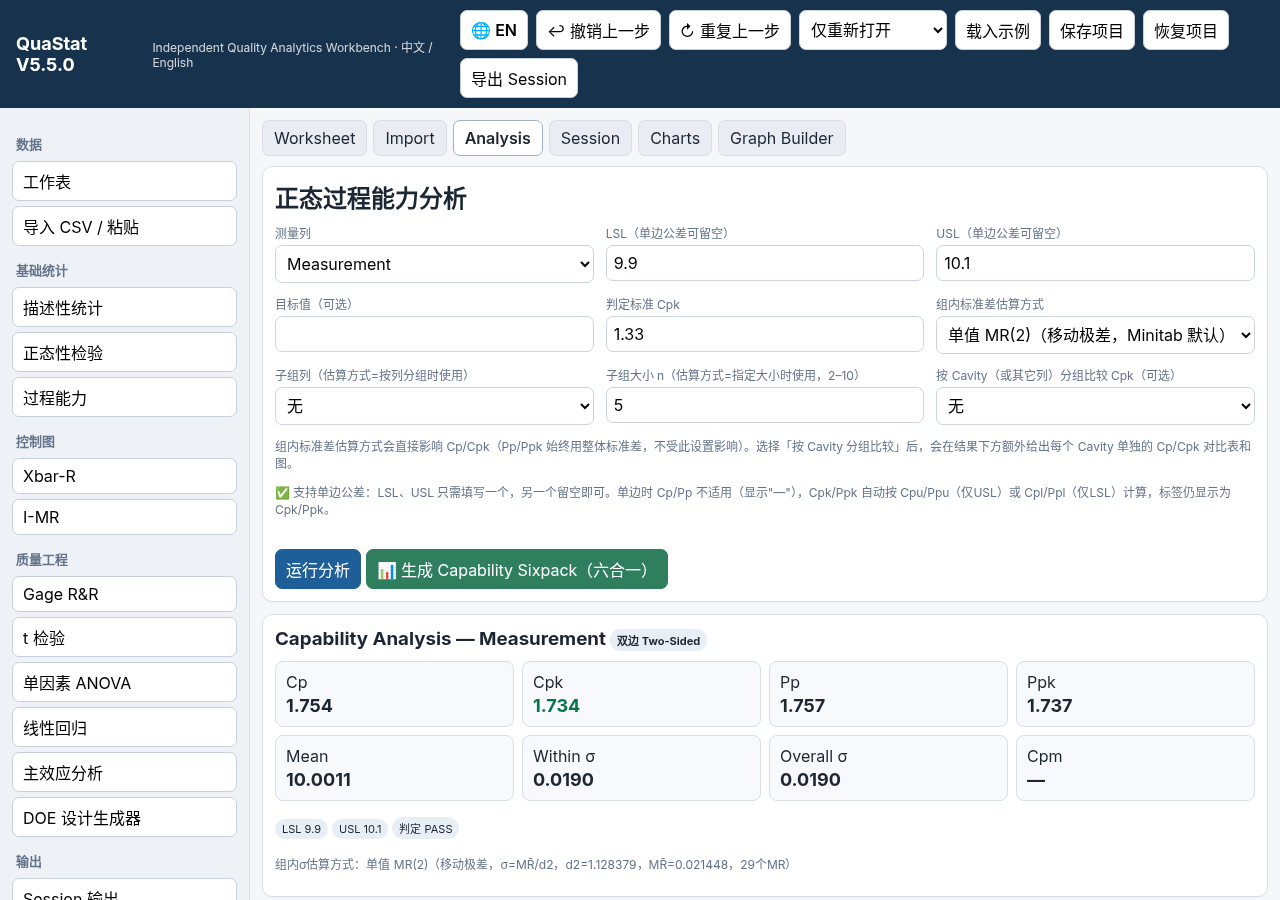
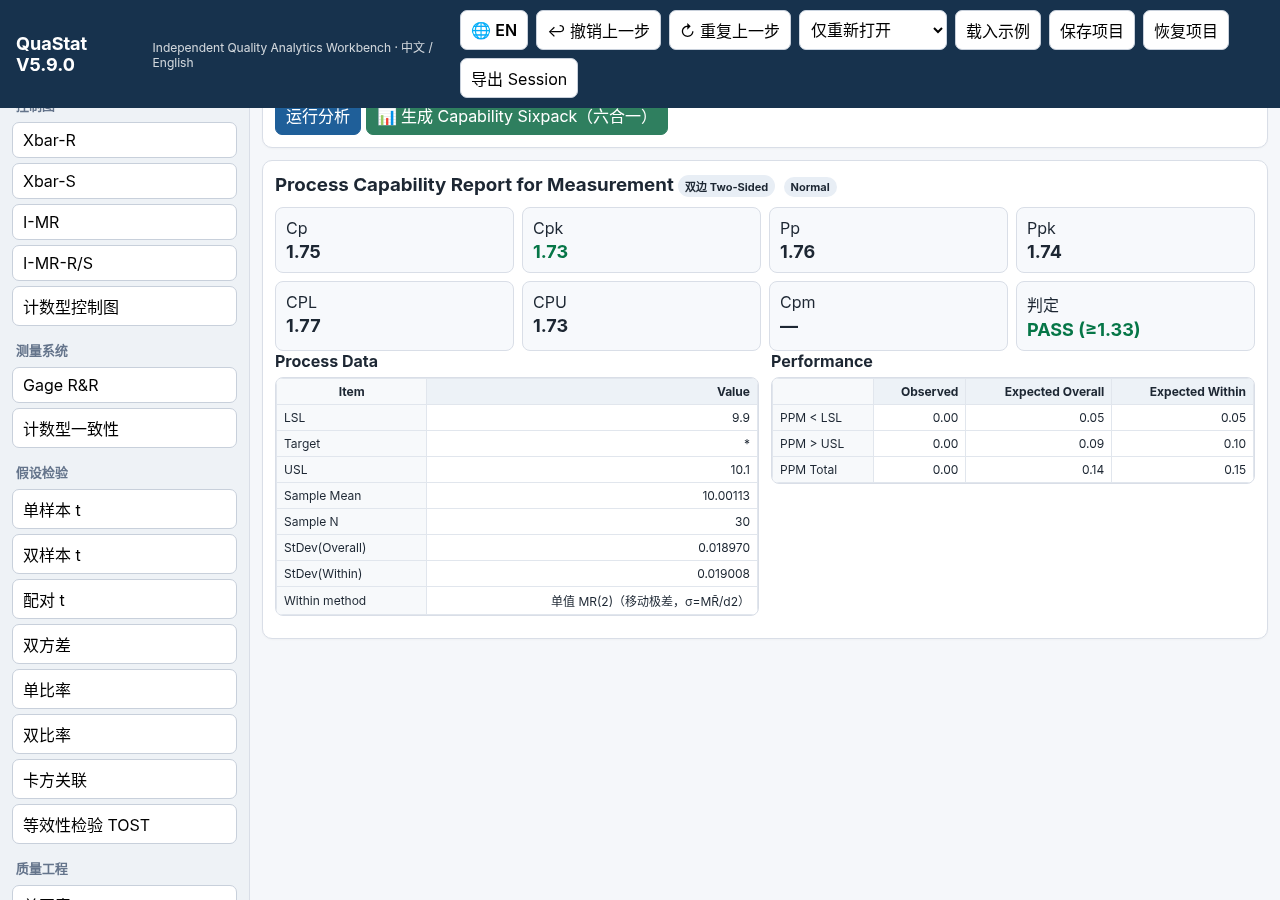
QuaStat 介绍页更新到 V5.9.0
- 功能列表按 9 组重写：工作表与数据工具 / 基础统计 / 过程能力 / 控制图 /
  测量系统分析 / 假设检验 / 质量工程与设计 / 图形与 Graph Builder /
  PCS 过程能力研究报告。补齐之前缺的容差区间、Xbar-S、I-MR-R/S、
  计数型 P/NP/C/U、计数型一致性、单比率双比率卡方、TOST、DOE 因子分析、
  单值图/区间图/Pareto，以及 PCS 报告整条链路。
- 版本号进 title、description 与 meta[name=version]；正文标出当前版本。
- 数值验证段落改用 VALIDATION.md 口径：合计 1066 项全通过（含本地 Minitab
  60 项），CI 为 1006 项；另有 verify.py 140 项、npm test 33 项；来源补全
  NIST StRD / e-Handbook / Monte Carlo 固定种子 / Minitab 官方公式，
  并说明本地 Minitab 报告不入库、CI 跳过。
- Minitab 只写到「方法与公式按官方文档实现、数值经多源交叉验证」，
  明确不等同逐图逐版面核对；保留「数值验证≠医疗器械软件确认」免责声明。
- 重截 worksheet.png / capability.png 为 V5.9.0 界面（旧图是 V5.5.0，
  侧栏和版本号都对不上）。
- style.css 加 h3 样式，让功能分组标题有层级。
- 首页卡片同步提到 V5.9.0 与 PCS 报告。

diff --git a/quastat/index.html b/quastat/index.html
@@ -3,8 +3,9 @@
 <head>
 <meta charset="utf-8">
 <meta name="viewport" content="width=device-width, initial-scale=1">
-<title>QuaStat · 轻量质量统计工作台</title>
-<meta name="description" content="QuaStat：单个 HTML 文件的质量统计分析工作台，数据只在本地浏览器中处理。">
+<title>QuaStat V5.9.0 · 轻量质量统计工作台</title>
+<meta name="description" content="QuaStat V5.9.0：单个 HTML 文件的质量统计分析工作台。过程能力与六图、控制图、Gage R&amp;R、假设检验、DOE，以及 PCS 过程能力研究报告。数据只在本地浏览器中处理。">
+<meta name="version" content="5.9.0">
 <link rel="stylesheet" href="/style.css">
 </head>
 <body>
@@ -12,36 +13,95 @@
 <header class="site"><a class="name" href="/">Ben Xu</a><nav><a href="/quastat/">QuaStat</a><a href="https://x.com/benjaminxu2023" rel="me noopener">X</a></nav></header>
 <main>
 <h1>QuaStat</h1>
-<p class="lead">轻量的质量统计分析工作台。单个 HTML 文件，中英文界面可切换。</p>
+<p class="lead">轻量的质量统计分析工作台，单个 HTML 文件，中英文界面可切换。当前版本 <strong>V5.9.0</strong>。</p>
 <div class="cta"><a class="btn" href="/quastat/app/">在线打开</a></div>
-<p class="note">数据只在本地浏览器中处理，不会上传。推荐使用 Chrome 或 Edge。</p>
+<p class="note">数据只在本地浏览器中处理，不会上传。无需安装或构建，推荐使用 Chrome 或 Edge。</p>
 
 <h2>功能</h2>
+
+<h3>工作表与数据工具</h3>
+<ul>
+  <li>导入 xlsx / csv / txt / tsv，或直接粘贴表格</li>
+  <li>堆叠列、拆分列、排序、计算器，撤销上一步</li>
+  <li>空白单元格按缺失处理（不当 0）；按项目隔离的设置记忆，切换数据集不会串参数</li>
+</ul>
+
+<h3>基础统计</h3>
 <ul>
   <li>描述性统计</li>
-  <li>正态性检验（Anderson–Darling）</li>
-  <li>过程能力：Cp/Cpk、Pp/Ppk、Cpm，可按 Cavity 分组比较</li>
-  <li>Xbar-R / I-MR 控制图</li>
-  <li>Gage R&amp;R</li>
-  <li>t 检验、单因素 ANOVA、线性回归</li>
-  <li>主效应分析、DOE 设计生成器</li>
-  <li>常用图形和 Graph Builder</li>
+  <li>正态性检验（Anderson–Darling，输出 A²、A²* 与 P 值）</li>
+  <li>容差区间</li>
 </ul>
-<p>无需安装或构建，在浏览器中打开即可使用。</p>
+
+<h3>过程能力</h3>
+<ul>
+  <li>Cp / Cpk、Pp / Ppk、Cpm，支持单侧公差</li>
+  <li>组内 σ 可选单值 MR(2)、按子组列、指定子组大小，或直接用整体标准差</li>
+  <li>按 Cavity（或任意列）分组比较各腔能力，并按腔出 Capability Sixpack 六图</li>
+  <li>非正态与变换：Box-Cox、Johnson 变换、Weibull、Lognormal</li>
+</ul>
+
+<h3>控制图</h3>
+<ul>
+  <li>计量型：Xbar-R、Xbar-S、I-MR、I-MR-R/S</li>
+  <li>计数型：P / NP / C / U，样本量不等时用逐点控制限</li>
+  <li>判异规则 Test 1–4；可按 Cavity 分组，各腔独立定限</li>
+</ul>
+
+<h3>测量系统分析</h3>
+<ul>
+  <li>Gage R&amp;R（交叉 ANOVA，含交互项，α=0.25 取舍规则；%Contribution、%StudyVar、%Tolerance、ndc）</li>
+  <li>计数型一致性分析（Attribute Agreement，κ）</li>
+</ul>
+
+<h3>假设检验</h3>
+<ul>
+  <li>单样本 t、双样本 t（Welch）、配对 t</li>
+  <li>双方差：Bonett、Levene、F 检验</li>
+  <li>单比率、双比率、卡方关联</li>
+  <li>等效性检验 TOST</li>
+</ul>
+
+<h3>质量工程与设计</h3>
+<ul>
+  <li>单因素 ANOVA（含 Tukey 多重比较）</li>
+  <li>一元线性回归</li>
+  <li>主效应分析</li>
+  <li>DOE 设计生成器：2<sup>k</sup> 全因子、部分因子、响应曲面 CCD，可设重复与区组</li>
+  <li>DOE 因子分析</li>
+</ul>
+
+<h3>图形与 Graph Builder</h3>
+<ul>
+  <li>直方图、箱线图、点图、单值图、区间图、散点图、时间序列图、多变异图、概率图、Pareto 图</li>
+  <li>每张图都可在 Graph Builder 里选列、选分组后重绘，并导出高清 PNG</li>
+</ul>
+
+<h3>PCS 过程能力研究报告</h3>
+<p>医疗器械包装常用的过程能力研究报告（PCS），从数据到可签核的文档一条链路：</p>
+<ul>
+  <li>导入 PCS 版式的 Excel，自动识别项目信息与各尺寸规格；识别不了的字段会明确列出并留空，不猜</li>
+  <li>Cpk 总结图、原始数据页、每腔一页 Capability Sixpack、正态性检验页</li>
+  <li>导出 A4 横向报告，打印或另存为 PDF；也可导出数据到 Excel</li>
+</ul>
 
 <figure><img src="/quastat/img/worksheet.png" alt="QuaStat 工作表（内置示例数据）" width="1280" height="900" loading="lazy"><figcaption>工作表：内置示例数据（「载入示例」）</figcaption></figure>
 <figure><img src="/quastat/img/capability.png" alt="QuaStat 过程能力分析结果（内置示例数据）" width="1280" height="900" loading="lazy"><figcaption>过程能力分析：示例数据，LSL 9.9 / USL 10.1，组内σ 默认用单值 MR(2)</figcaption></figure>
 
 <h2>数值验证</h2>
-<p>计算结果与多个独立来源逐项比对，作为持续集成的硬门禁：任何一项超出容差，测试即失败。</p>
+<p>统计结果与多个互相独立的来源逐项比对，作为持续集成的硬门禁：任何一项超出容差，测试即失败。</p>
 <ul>
   <li>独立实现：Python（numpy / scipy / statsmodels）与 R（base R、nortest）</li>
   <li>NIST StRD 认证数据集：单变量统计 9 个、单因素 ANOVA 11 个、线性回归 Norris</li>
   <li>NIST/SEMATECH e-Handbook 例题（过程能力、t 检验数据、控制图系数）</li>
-  <li>Monte Carlo（已知真值，检验 d2、c4 等常数）</li>
+  <li>Monte Carlo（固定种子，用已知真值检验 d2、c4 等常数）</li>
+  <li>Minitab 官方 Methods and formulas（按其公式独立实现并比对）</li>
+  <li>一份本地 Minitab 报告逐项对照（数据不入库，持续集成中跳过）</li>
 </ul>
-<p>当前版本在持续集成中 1006 项检查全部通过。主要约定：过程能力默认用单值 MR(2) 估算组内σ；空白单元格按缺失处理（不当 0）；Cpm 按 Minitab 的定义计算。</p>
-<p>尚未有公开认证数据对照的部分：Gage R&amp;R、Welch t 检验（只与 Python、R 独立实现比对），主效应与 DOE 设计（只与 Python 比对）；回归只支持一元线性。</p>
+<p>合计 <strong>1066 项</strong>核对全部通过（含本地 Minitab 对照 60 项；持续集成环境中无该报告，跑 <strong>1006 项</strong>，同样全部通过）。另有 140 项旧版核验与 33 项界面/回归测试一并通过。</p>
+<p>方法与公式按 Minitab 官方文档实现，数值经上述多源交叉验证；这不等于逐图逐版面与 Minitab 输出核对过。界面版式与图形形态仍以本工具自身设计为准。</p>
+<p>主要约定：过程能力默认用单值 MR(2) 估算组内σ；空白单元格按缺失处理；Cpm 按 Minitab 的定义计算。</p>
+<p>尚未有公开认证数据对照的部分：Gage R&amp;R、Welch t 检验（只与 Python、R 独立实现比对），主效应与 DOE 设计（只与 Python 比对）；回归只支持一元线性。非正态能力（Weibull / Lognormal / Johnson）只给整体 Pp/Ppk 与预期 PPM。</p>
 <p class="note">这是软件数值验证，不等同于医疗器械质量体系下的正式软件确认（validation）。用于正式记录前，请按贵司程序自行确认。</p>
 <div class="cta"><a class="btn" href="/quastat/app/">在线打开</a></div>
 </main>

diff --git a/index.html b/index.html
@@ -18,7 +18,7 @@
 <div class="cards">
   <div class="card">
     <h3>QuaStat</h3>
-    <p>轻量质量统计工作台：描述统计、正态性检验、过程能力、控制图、Gage R&amp;R 等。单个 HTML 文件，数据只在本地浏览器中处理。</p>
+    <p>轻量质量统计工作台（当前 V5.9.0）：描述统计、正态性检验、过程能力与六图、控制图、Gage R&amp;R、假设检验、DOE，以及 PCS 过程能力研究报告导出。单个 HTML 文件，数据只在本地浏览器中处理。</p>
     <div class="links"><a href="/quastat/">介绍</a><a href="/quastat/app/">在线打开</a></div>
   </div>
 </div>

diff --git a/style.css b/style.css
@@ -8,6 +8,7 @@ header.site .name{font-weight:700;font-size:18px;color:#1d2733;text-decoration:n
 header.site nav a{margin-left:16px;text-decoration:none}
 h1{font-size:26px;line-height:1.35;margin:0 0 10px}
 h2{font-size:20px;margin:32px 0 12px}
+h3{font-size:16px;margin:20px 0 6px;color:#1d2733}
 p{margin:0 0 12px}
 .lead{font-size:17px;color:#3b4754}
 .cards{display:grid;grid-template-columns:repeat(auto-fill,minmax(240px,1fr));gap:16px;margin-top:16px}
